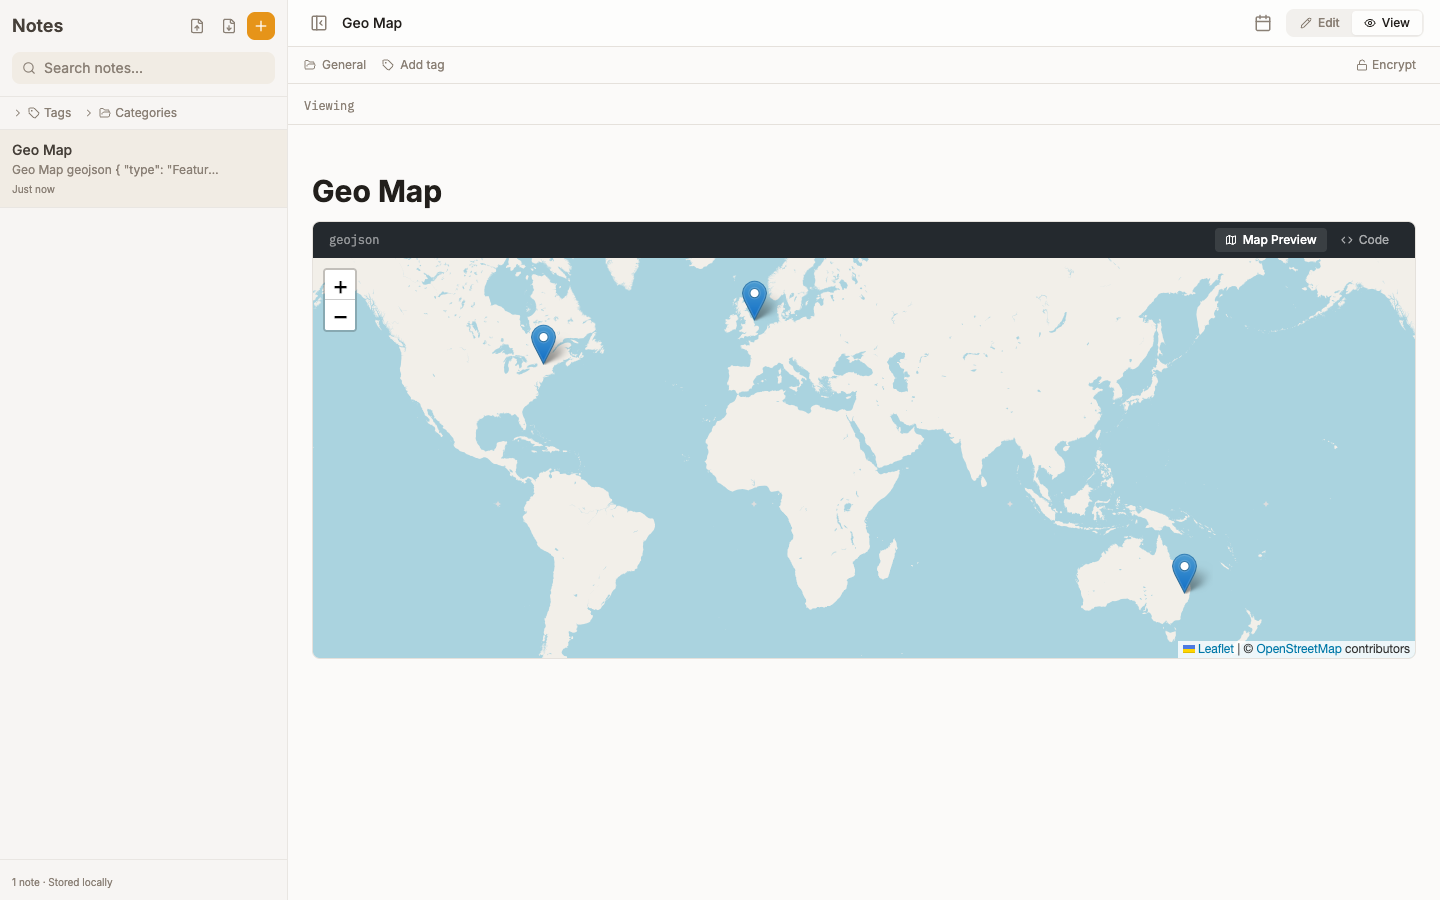
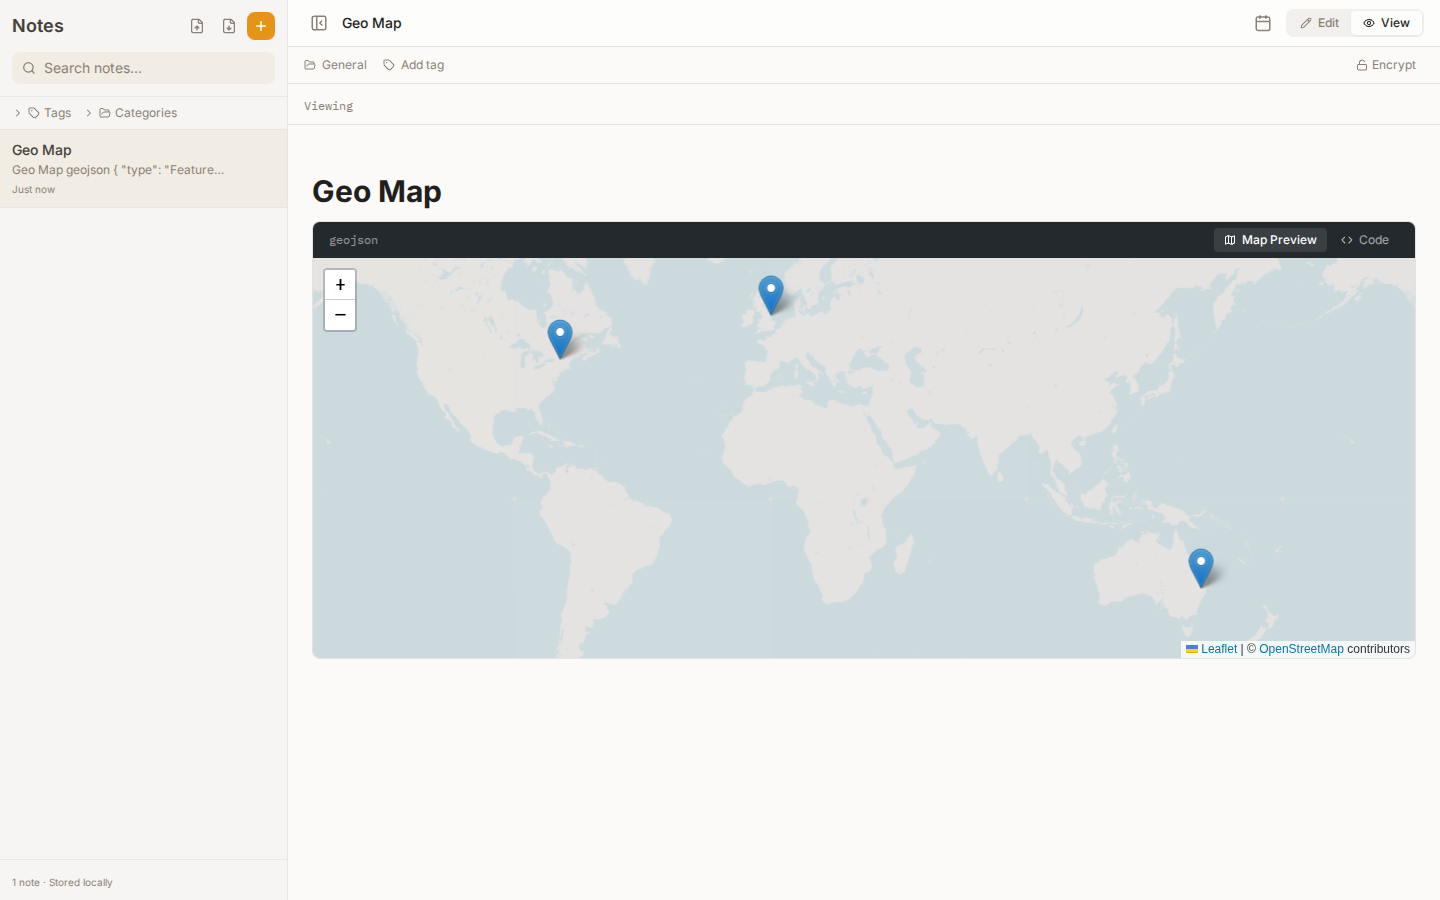
feat: check code editors for all diagrams

diff --git a/e2e/docs-tour.spec.ts b/e2e/docs-tour.spec.ts
@@ -264,8 +264,112 @@ test('captures mermaid diagram', async ({ page }) => {
   ]);
   await page.goto('/');
   await openNoteInView(page, 'Mermaid');
-  await expect(page.locator('.prose-notes svg')).toBeVisible({ timeout: 15000 });
+  // The diagram SVG lives in the preview pane; :not(.lucide) excludes the
+  // header tab icons, which are also svgs inside the block.
+  await expect(page.locator('.mermaid-diagram svg:not(.lucide)')).toBeVisible({ timeout: 15000 });
   await shot(page, 'mermaid-diagram');
+  // Toggle to the code view and capture it too.
+  const mermaidBlock = page.locator('.mermaid-diagram').first();
+  await mermaidBlock.getByRole('button', { name: 'Code' }).click();
+  await expect(mermaidBlock).toContainText('graph TD');
+  // Wait for shiki highlighting (pre.shiki) so the screenshot shows the final
+  // readable state instead of the loading fallback.
+  await expect(mermaidBlock.locator('pre.shiki').first()).toBeVisible({ timeout: 15000 });
+  await shot(page, 'mermaid-code');
+});
+
+// ─── mermaid-diagram-types ──────────────────────────────────────────────────
+test('captures mermaid diagram types', async ({ page }) => {
+  test.skip(
+    !process.env.E2E_DOCS || test.info().project.name !== 'chromium',
+    'docs tour runs only with E2E_DOCS=1 on the chromium project'
+  );
+  await seedNotes(page, [
+    makeNote({
+      title: 'Mermaid Types',
+      content: `# Mermaid Types
+
+## Sequence diagram
+
+\`\`\`mermaid
+sequenceDiagram
+    Alice->>Bob: Hello Bob, how are you?
+    Bob-->>Alice: Great, thanks for asking!
+    Alice-)Bob: Talk later
+\`\`\`
+
+## Gantt chart
+
+\`\`\`mermaid
+gantt
+    title Sprint Plan
+    dateFormat  YYYY-MM-DD
+    section Design
+    Wireframes     :done, d1, 2024-01-01, 5d
+    Prototype      :active, after d1, 4d
+    section Build
+    Implementation :2024-01-12, 10d
+    Testing        :2024-01-22, 5d
+\`\`\`
+
+## Pie chart
+
+\`\`\`mermaid
+pie title Time spent per language
+    "TypeScript" : 45
+    "Python" : 30
+    "Rust" : 25
+\`\`\`
+
+## State diagram
+
+\`\`\`mermaid
+stateDiagram-v2
+    [*] --> Draft
+    Draft --> Review: submit
+    Review --> Published: approve
+    Review --> Draft: request changes
+    Published --> [*]
+\`\`\`
+
+## Entity relationship
+
+\`\`\`mermaid
+erDiagram
+    NOTE ||--o{ TAG : tagged-with
+    NOTE {
+        string id PK
+        string title
+    }
+    TAG {
+        string name
+    }
+\`\`\``,
+      hasMermaid: true,
+      hasCodeBlocks: false,
+    }),
+  ]);
+  await page.goto('/');
+  await openNoteInView(page, 'Mermaid Types');
+  // Every diagram type mounts its own MermaidBlock and renders an inline SVG.
+  // :not(.lucide) excludes the header tab icons, which are also svgs.
+  await expect(page.locator('.mermaid-diagram svg:not(.lucide)')).toHaveCount(5, { timeout: 20000 });
+  // The note body scrolls in an inner container inside an h-screen app shell,
+  // which clips fullPage shots. Relax overflow on it and every ancestor so the
+  // whole stack of diagrams flows into the page and is captured.
+  await page.evaluate(() => {
+    let el: HTMLElement | null | undefined = document.querySelector('.prose-notes')?.parentElement;
+    while (el && el !== document.body) {
+      const overflow = getComputedStyle(el).overflow + getComputedStyle(el).overflowY;
+      if (/auto|scroll|hidden/.test(overflow)) {
+        el.style.overflow = 'visible';
+        el.style.height = 'auto';
+        el.style.flex = 'none';
+      }
+      el = el.parentElement;
+    }
+  });
+  await shot(page, 'mermaid-diagram-types', { fullPage: true });
 });
 
 // ─── bpmn-diagram ───────────────────────────────────────────────────────────
@@ -408,7 +512,16 @@ test('captures geojson map', async ({ page }) => {
   await openNoteInView(page, 'Geo Map');
   await expect(page.locator('.leaflet-container')).toBeVisible({ timeout: 20000 });
   await expect(page.locator('.leaflet-marker-icon')).toHaveCount(3, { timeout: 20000 });
+  // Wait for real map tiles, not just markers: tiles stream in asynchronously
+  // and a shot taken too early shows a grey background (this regressed once).
+  await expect(page.locator('.leaflet-tile-loaded').first()).toBeVisible({ timeout: 20000 });
   await shot(page, 'geojson-map');
+  // Toggle to the code view and capture it too.
+  const geoBlock = page.locator('.prose-notes div.my-3', { hasText: 'geojson' });
+  await geoBlock.getByRole('button', { name: 'Code' }).click();
+  await expect(geoBlock).toContainText('FeatureCollection');
+  await expect(geoBlock.locator('pre.shiki').first()).toBeVisible({ timeout: 15000 });
+  await shot(page, 'geojson-code');
 });
 
 // ─── model-3d ───────────────────────────────────────────────────────────────
@@ -642,6 +755,18 @@ const GALLERY: GallerySection[] = [
       'Write Mermaid syntax in a fenced code block and Note Haven renders it as a flowchart, sequence diagram, or other diagram directly in your note.',
   },
   {
+    file: 'mermaid-code',
+    title: 'Mermaid Source View',
+    caption:
+      'Toggle to the code view to inspect the underlying Mermaid syntax directly, alongside the rendered diagram.',
+  },
+  {
+    file: 'mermaid-diagram-types',
+    title: 'More Mermaid Diagram Types',
+    caption:
+      'Sequence, gantt, pie, state, and entity-relationship diagrams all render natively — each fenced `mermaid` block becomes a live diagram in your note.',
+  },
+  {
     file: 'bpmn-diagram',
     title: 'Readable BPMN Workflows',
     caption:
@@ -658,6 +783,12 @@ const GALLERY: GallerySection[] = [
     title: 'Interactive Maps',
     caption:
       'Paste GeoJSON into a code block to render an interactive map with markers. Great for trip plans, field notes, or anything location-based.',
+  },
+  {
+    file: 'geojson-code',
+    title: 'GeoJSON Source View',
+    caption:
+      'Toggle to the code view to inspect the underlying GeoJSON directly, alongside the rendered map.',
   },
   {
     file: 'model-3d',

diff --git a/src/components/MermaidBlock.tsx b/src/components/MermaidBlock.tsx
@@ -1,5 +1,6 @@
 import { useEffect, useRef, useState } from 'react';
 import mermaid from 'mermaid';
+import { Workflow, Code2, Copy, Check } from 'lucide-react';
 
 mermaid.initialize({
   startOnLoad: false,
@@ -97,6 +98,9 @@ export default function MermaidBlock({ code }: { code: string }) {
   const ref = useRef<HTMLDivElement>(null);
   const [svg, setSvg] = useState('');
   const [error, setError] = useState('');
+  const [activeTab, setActiveTab] = useState<'preview' | 'code'>('preview');
+  const [highlighted, setHighlighted] = useState('');
+  const [copied, setCopied] = useState(false);
 
   useEffect(() => {
     const id = `mermaid-${++mermaidCounter}`;
@@ -134,6 +138,30 @@ export default function MermaidBlock({ code }: { code: string }) {
       });
   }, [code]);
 
+  // Highlight the mermaid source for the code view. Falls back to plain text
+  // if the mermaid grammar is unavailable in the bundled shiki languages.
+  useEffect(() => {
+    let cancelled = false;
+    import('shiki').then(async ({ codeToHtml }) => {
+      try {
+        const html = await codeToHtml(code, { lang: 'mermaid', theme: 'github-dark' });
+        if (!cancelled) setHighlighted(html);
+      } catch {
+        const html = await codeToHtml(code, { lang: 'text', theme: 'github-dark' });
+        if (!cancelled) setHighlighted(html);
+      }
+    });
+    return () => {
+      cancelled = true;
+    };
+  }, [code]);
+
+  const handleCopy = () => {
+    navigator.clipboard.writeText(code);
+    setCopied(true);
+    setTimeout(() => setCopied(false), 2000);
+  };
+
   if (error) {
     return (
       <div className="bg-destructive/10 text-destructive p-3 rounded-sm text-sm font-mono">
@@ -143,10 +171,70 @@ export default function MermaidBlock({ code }: { code: string }) {
   }
 
   return (
-    <div
-      ref={ref}
-      className="my-3 flex justify-center"
-      dangerouslySetInnerHTML={{ __html: svg }}
-    />
+    <div className="mermaid-diagram my-3 overflow-hidden rounded-md border border-border">
+      {/* Header Tabs */}
+      <div className="flex items-center justify-between px-4 py-1.5 bg-[#24292e]">
+        <div className="flex items-center gap-2">
+          <span className="text-xs font-mono text-white/50">mermaid</span>
+        </div>
+        <div className="flex items-center gap-1">
+          <button
+            onClick={() => setActiveTab('preview')}
+            className={`flex items-center gap-1.5 px-2.5 py-1 text-xs rounded transition-colors ${
+              activeTab === 'preview'
+                ? 'bg-white/10 text-white font-medium'
+                : 'text-white/60 hover:text-white/95'
+            }`}
+          >
+            <Workflow size={12} />
+            Diagram Preview
+          </button>
+          <button
+            onClick={() => setActiveTab('code')}
+            className={`flex items-center gap-1.5 px-2.5 py-1 text-xs rounded transition-colors ${
+              activeTab === 'code'
+                ? 'bg-white/10 text-white font-medium'
+                : 'text-white/60 hover:text-white/95'
+            }`}
+          >
+            <Code2 size={12} />
+            Code
+          </button>
+          {activeTab === 'code' && (
+            <button
+              onClick={handleCopy}
+              className="flex items-center gap-1 px-2.5 py-1 text-xs text-white/40 hover:text-white/80 transition-colors"
+            >
+              {copied ? <Check size={12} /> : <Copy size={12} />}
+              {copied ? 'Copied' : 'Copy'}
+            </button>
+          )}
+        </div>
+      </div>
+
+      {activeTab === 'code' ? (
+        highlighted ? (
+          <div
+            className="shiki-wrapper text-sm [&_pre]:!my-0 [&_pre]:!rounded-none [&_pre]:!border-0 [&_pre]:max-h-96 [&_pre]:overflow-auto [&_pre]:!p-4 [&_code]:!text-sm"
+            dangerouslySetInnerHTML={{ __html: highlighted }}
+          />
+        ) : (
+          // Loading fallback with inline background so `.prose-notes pre`
+          // (bg-muted) cannot leave light text on a light background.
+          <pre
+            style={{ backgroundColor: '#24292e' }}
+            className="p-4 text-sm text-white/70 font-mono overflow-x-auto max-h-96"
+          >
+            <code>{code}</code>
+          </pre>
+        )
+      ) : (
+        <div
+          ref={ref}
+          className="flex justify-center p-3"
+          dangerouslySetInnerHTML={{ __html: svg }}
+        />
+      )}
+    </div>
   );
 }

diff --git a/e2e/features.spec.ts b/e2e/features.spec.ts
@@ -110,8 +110,9 @@ sequenceDiagram
   await openNoteInView(page, 'Multi Mermaid');
   await debugBreak(page, 'multi-mermaid — two diagrams should render');
 
-  // Both diagrams render asynchronously into <svg> elements.
-  await expect(page.locator('.prose-notes svg')).toHaveCount(2, { timeout: 15000 });
+  // Both diagrams render asynchronously into <svg> elements. Scoped to
+  // .mermaid-diagram; :not(.lucide) excludes the header tab icons.
+  await expect(page.locator('.mermaid-diagram svg:not(.lucide)')).toHaveCount(2, { timeout: 15000 });
   await step(page, 'two-diagrams');
 });
 
@@ -137,7 +138,7 @@ sequenceDiagram
   await openNoteInView(page, 'Sequence');
   await debugBreak(page, 'sequence — participant labels should be in the svg');
 
-  const svg = page.locator('.prose-notes svg');
+  const svg = page.locator('.mermaid-diagram svg:not(.lucide)');
   await expect(svg).toBeVisible({ timeout: 15000 });
   // Participant names render as <text> inside the mermaid svg.
   await expect(svg).toContainText('Alice');

diff --git a/e2e/editor.spec.ts b/e2e/editor.spec.ts
@@ -155,8 +155,9 @@ test('renders a mermaid diagram', async ({ page }) => {
   await debugBreak(page, 'note open — inspect before mermaid render');
 
   await page.getByRole('button', { name: 'View', exact: true }).click();
-  // Mermaid renders asynchronously into an <svg> inside the viewer.
-  await expect(page.locator('.prose-notes svg')).toBeVisible({ timeout: 15000 });
+  // Mermaid renders asynchronously into an <svg> inside the viewer. Scoped to
+  // .mermaid-diagram; :not(.lucide) excludes the header tab icons.
+  await expect(page.locator('.mermaid-diagram svg:not(.lucide)')).toBeVisible({ timeout: 15000 });
   await step(page, 'mermaid-rendered');
 });
 

diff --git a/e2e/migration.spec.ts b/e2e/migration.spec.ts
@@ -399,8 +399,9 @@ test('migrates a v2 database preserving feature flags', async ({ page }) => {
   await debugBreak(page, 'v2 migrated — inspect before view render');
 
   // The v2 hasMermaid flag must survive migration so the mermaid renderer loads.
+  // Scoped to .mermaid-diagram; :not(.lucide) excludes the header tab icons.
   await page.getByRole('button', { name: 'View', exact: true }).click();
-  await expect(page.locator('.prose-notes svg')).toBeVisible({ timeout: 15000 });
+  await expect(page.locator('.mermaid-diagram svg:not(.lucide)')).toBeVisible({ timeout: 15000 });
   await step(page, 'v2-migrated-render');
 });
 

diff --git a/src/components/BpmnBlock.tsx b/src/components/BpmnBlock.tsx
@@ -87,7 +87,7 @@ export default function BpmnBlock({ code }: BpmnBlockProps) {
       viewer.destroy();
       viewerRef.current = null;
     };
-  }, [code]);
+  }, [code, activeTab]);
 
   return (
     <div className="my-3 overflow-hidden rounded-md border border-border">

diff --git a/docs/FEATURES.md b/docs/FEATURES.md
@@ -52,6 +52,18 @@ JavaScript code blocks can be executed right inside a note. Press Run to see the
 
 Write Mermaid syntax in a fenced code block and Note Haven renders it as a flowchart, sequence diagram, or other diagram directly in your note.
 
+## Mermaid Source View
+
+![Mermaid Source View](images/mermaid-code.png)
+
+Toggle to the code view to inspect the underlying Mermaid syntax directly, alongside the rendered diagram.
+
+## More Mermaid Diagram Types
+
+![More Mermaid Diagram Types](images/mermaid-diagram-types.png)
+
+Sequence, gantt, pie, state, and entity-relationship diagrams all render natively — each fenced `mermaid` block becomes a live diagram in your note.
+
 ## Readable BPMN Workflows
 
 ![Readable BPMN Workflows](images/bpmn-diagram.png)
@@ -69,6 +81,12 @@ Toggle to the code view to inspect the underlying BPMN XML directly, alongside t
 ![Interactive Maps](images/geojson-map.png)
 
 Paste GeoJSON into a code block to render an interactive map with markers. Great for trip plans, field notes, or anything location-based.
+
+## GeoJSON Source View
+
+![GeoJSON Source View](images/geojson-code.png)
+
+Toggle to the code view to inspect the underlying GeoJSON directly, alongside the rendered map.
 
 ## 3D Models in Your Notes
 
